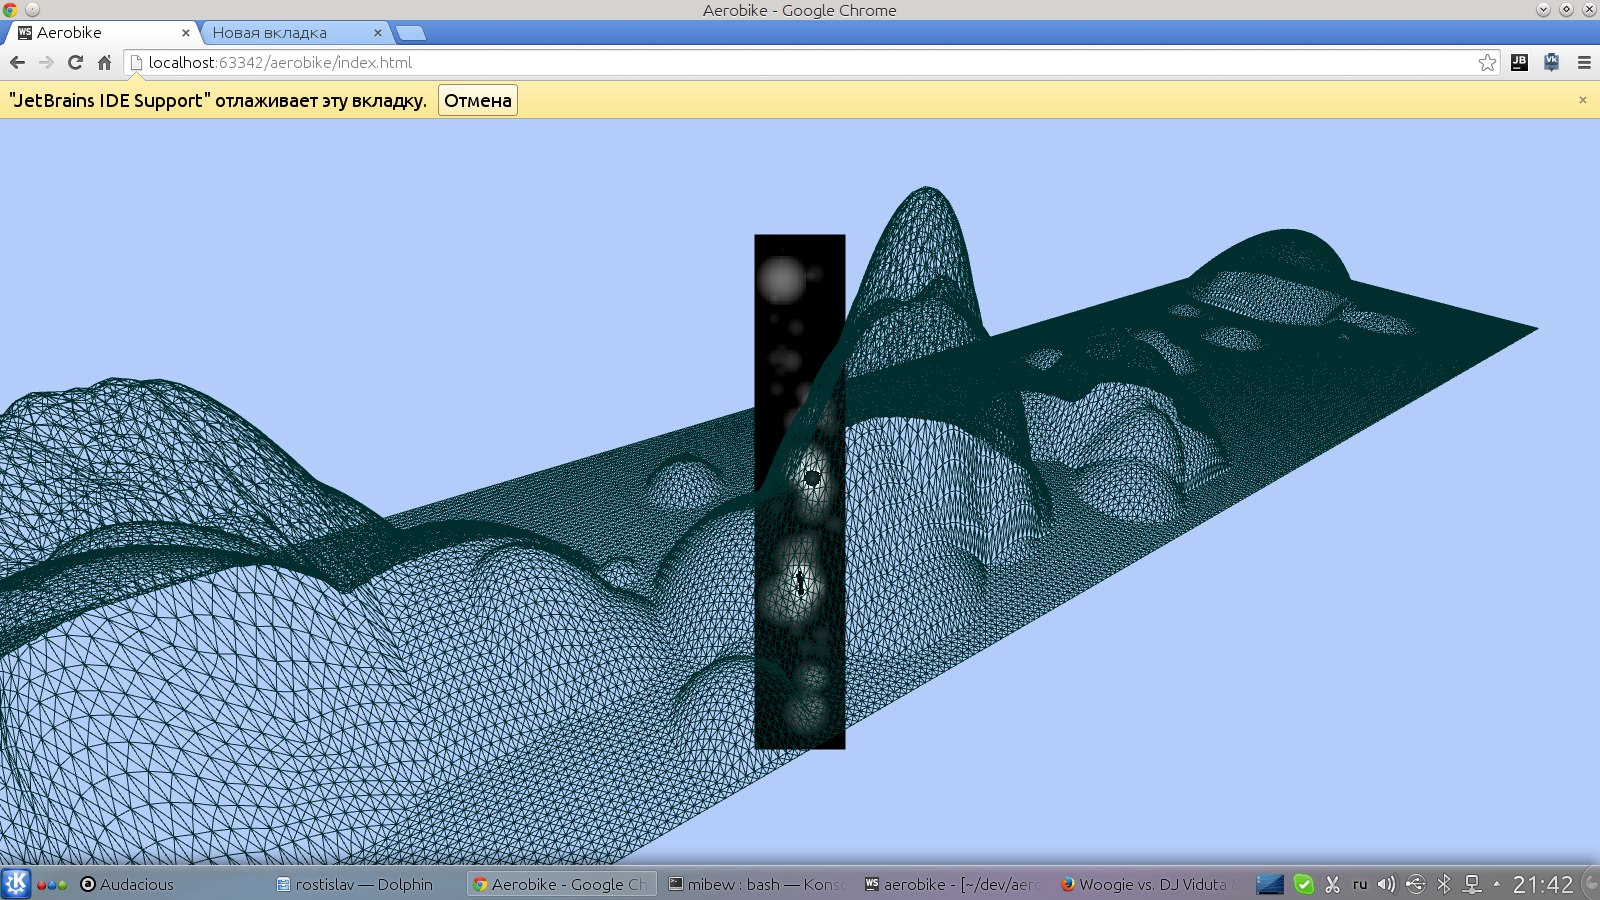
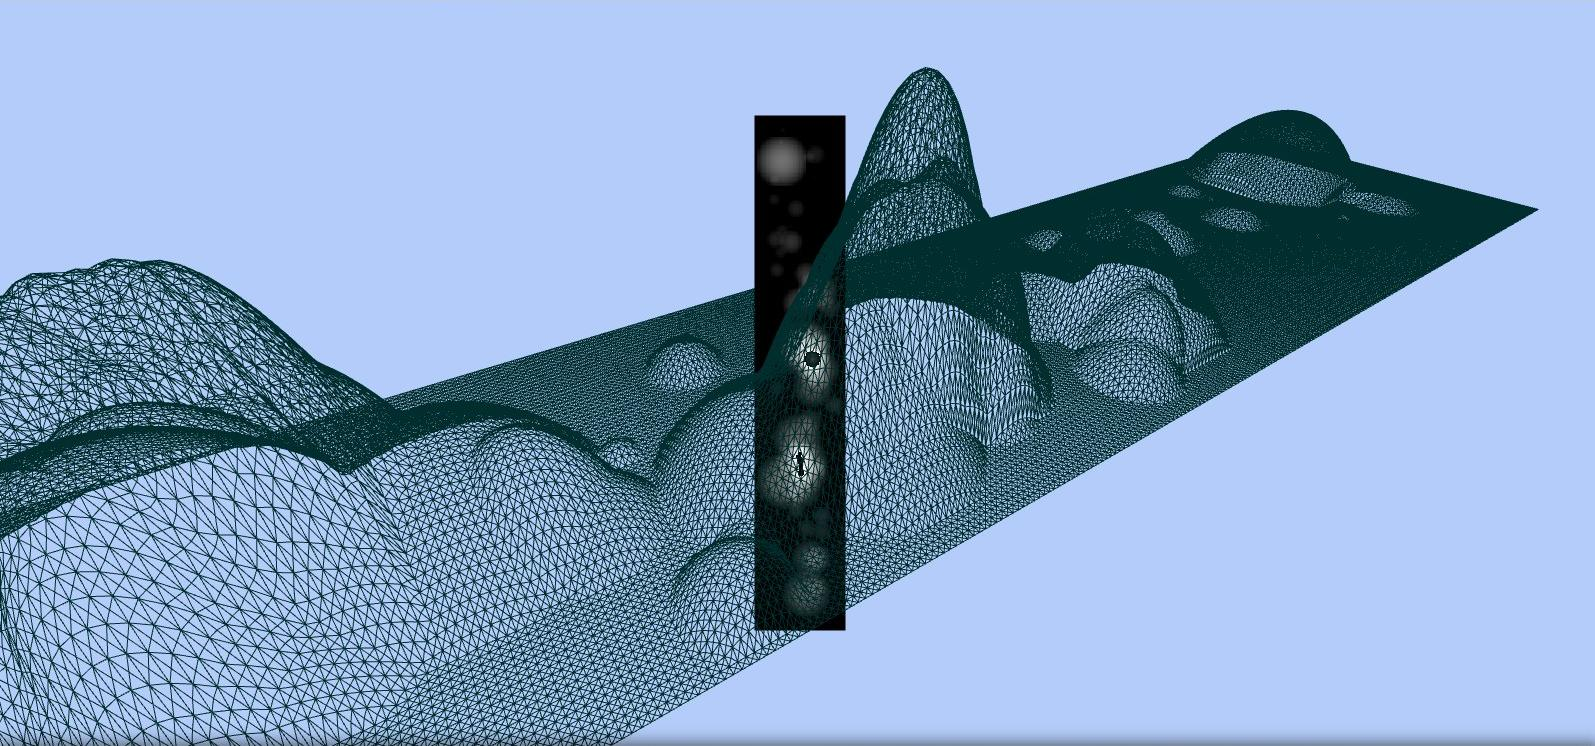
Добавлено наложение нескольких текстур на ландшафт.

diff --git a/js/models.js b/js/models.js
@@ -282,7 +282,7 @@ MODELS.Terrain = function(conf) {
         // Нормализация карты высот
         var width = conf.conv.width();
         for (i in d) {
-            d[i] = (d[i] / max_y) * width * 0.4;
+            d[i] = (d[i] / max_y) * width * 0.45;
         }
         return d;
     };
@@ -528,32 +528,41 @@ MODELS.Terrain = function(conf) {
         // Получение лекой обочины
         var i;
         var binom_conf = {};
+        var b;
         var t_div = 1 / (beg_rou - beg);
+        var t;
         for (i = beg; i < beg_rou; ++i) {
+            t = t_div * (i - beg);
             binom_conf = {
-                t: t_div * (i - beg),
+                t: t,
                 p0: cpc[0].p0,
                 p1: cpc[0].p1,
                 p2: cpc[0].p2,
                 p3: cpc[0].p3
             };
-            conf.height_map[i] = binom4(binom_conf);
+            b = binom4(binom_conf);
+            conf.height_map[i] = b;
+            conf.route_map[i] = t;
         }
         // Получение полотна трассы
         for (i = beg_rou; i < end_rou; ++i) {
             conf.height_map[i] = conf.route_centr.y;
+            conf.route_map[i] = 1;
         }
         // Получение правой обочины
         t_div = 1 / (end - end_rou);
         for (i = end_rou; i < end; ++i) {
+            t = t_div * (i - end_rou);
             binom_conf = {
-                t: t_div * (i - end_rou),
+                t: t,
                 p0: cpc[2].p0,
                 p1: cpc[2].p1,
                 p2: cpc[2].p2,
                 p3: cpc[2].p3
             };
-            conf.height_map[i] = binom4(binom_conf);
+            b = binom4(binom_conf);
+            conf.height_map[i] = b;
+            conf.route_map[i] = (1 - t);
         }
     }
 
@@ -586,6 +595,12 @@ MODELS.Terrain = function(conf) {
 
         // Послучить комплект вертикальной кривизны трассы
         var y_cpc = computeControlPointsOfCurves(y_koords);
+
+        // Подготовка карты полотна трассы
+        var route_map = [];
+        for (var rmi in conf.height_map) {
+            route_map[rmi] = 0;
+        }
 
         if (x_cpc.length === y_cpc.length) {
             // Построение кривой трассы
@@ -634,6 +649,7 @@ MODELS.Terrain = function(conf) {
                 // Сгенерировать обочины для ряда точек трассы
                 verges_conf = {
                     height_map: conf.height_map,
+                    route_map: route_map,
                     conv: conf.conv,
                     route_width: conf.route_width,        // Ширины трассы
                     route_centr: route[j],                // Центральная точка трассы на ряду точек тирейна
@@ -644,7 +660,7 @@ MODELS.Terrain = function(conf) {
         }
         return {
             pivot_verts: pivot_verts,
-            heigth_map: conf.height_map
+            route_map: route_map
         };
     }
 
@@ -723,8 +739,32 @@ MODELS.Terrain = function(conf) {
         return geometry;
     };
 
-// TODO
-// 1. Убрать смещение опорных точек в центр координат
+    /**
+     * conv      - Конвертер координат,
+     * tir_geom: - Геометрия трассы
+    */
+    function generateTerrainUvs(conf) {
+        var w = conf.conv.width();
+        var h = conf.conv.height();
+        var hw = w * 0.5;
+        var hh = h * 0.5;
+        var a;
+        var b;
+        var c;
+        var uva;
+        var uvb;
+        var uvc;
+        for (var fi in conf.tir_geom.faces) {
+            a = conf.tir_geom.vertices[conf.tir_geom.faces[fi].a];
+            b = conf.tir_geom.vertices[conf.tir_geom.faces[fi].b];
+            c = conf.tir_geom.vertices[conf.tir_geom.faces[fi].c];
+            uva = new THREE.Vector2((a.x + hw) / w, (a.z + hh) / h);
+            uvb = new THREE.Vector2((b.x + hw) / w, (b.z + hh) / h);
+            uvc = new THREE.Vector2((c.x + hw) / w, (c.z + hh) / h);
+            conf.tir_geom.faceVertexUvs[0].push([uva, uvb, uvc]);
+        }
+    }
+////////////////////////////////////////////////////////////////////////////////////////////////////////////////////////
 
     // Конвертер координат в индекс карты высот и обратно
     var _conv = new Converter(conf);
@@ -755,24 +795,24 @@ MODELS.Terrain = function(conf) {
     var _route = generateRoute(route_conf);
 
     // // * Тестовая картинка карты высот
-    // var pixelData = new Uint8Array(hm_conf.segm_width * hm_conf.segm_height * 4);
+    // var pixelData = new Uint8Array(_conv.widthInSegments() * _conv.heightInSegments() * 4);
     // var aid = 0;
-    // for (var y = 0; y < hm_conf.segm_height; ++y) {
-    //     for (var x = 0; x < hm_conf.segm_width; ++x) {
-    //         id = y * hm_conf.segm_width + x;
+    // for (var y = 0; y < _conv.heightInSegments(); ++y) {
+    //     for (var x = 0; x < _conv.widthInSegments(); ++x) {
+    //         id = y * _conv.widthInSegments() + x;
     //         aid = id * 4;
-    //         var ht = _height_map[id] / 64;
-    //         var c = Math.floor(255 * (10 < ht ? 1 : ht));
-    //         pixelData[aid] = c;
-    //         pixelData[aid + 1] = c;
-    //         pixelData[aid + 2] = c;
-    //         pixelData[aid + 3] = 255;
+    //         var ht = _route.route_map[id];
+    //         var c = Math.floor(255 * ht);
+    //         pixelData[aid] = 255;
+    //         pixelData[aid + 1] = 255;
+    //         pixelData[aid + 2] = 255;
+    //         pixelData[aid + 3] = c;
     //     }
     // }
     // const dataTexture = new THREE.DataTexture(
     //     pixelData,
-    //     hm_conf.segm_width,
-    //     hm_conf.segm_height,
+    //     _conv.widthInSegments(),
+    //     _conv.heightInSegments(),
     //     THREE.RGBAFormat,
     //     THREE.UnsignedByteType,
     //     THREE.UVMapping);
@@ -780,22 +820,22 @@ MODELS.Terrain = function(conf) {
     // var _hm_mat = new THREE.SpriteMaterial( { map: dataTexture } );
     // var _hm_sprite = new THREE.Sprite( _hm_mat );
     // _hm_sprite.position.set(0, 5, 0);
-    // _hm_sprite.scale.set(hm_conf.segm_width / 5, hm_conf.segm_height / 5, 1);
+    // _hm_sprite.scale.set(_conv.widthInSegments() / 5, _conv.heightInSegments() / 5, 1);
     // _scope.add(_hm_sprite);
     // // * __________________________________________________
 
-    // // * Отрисовка опорных точек
-    // var darkMaterial = new THREE.MeshBasicMaterial( { color: 0xff7733 } );
-    // var wireframeMaterial = new THREE.MeshBasicMaterial( { color: 0x00ff00, wireframe: true, transparent: true } );
-    // var multiMaterial = [ darkMaterial, wireframeMaterial ];
-    // for(var sp in _route.pivot_verts) {
-    //     var octagedron = new THREE.OctahedronGeometry(0.8, 0);
-    //     var shape = THREE.SceneUtils.createMultiMaterialObject(octagedron, multiMaterial);
-    //     var pos = _route.pivot_verts[sp];
-    //     shape.position.set(pos.x - _conv.width() * 0.5, pos.y, -pos.z + conf.height * 0.5);
-    //     _scope.add(shape);
-    // }
-    // // * __________________________________________________
+    // * Отрисовка опорных точек
+    var darkMaterial = new THREE.MeshBasicMaterial( { color: 0xff7733 } );
+    var wireframeMaterial = new THREE.MeshBasicMaterial( { color: 0x00ff00, wireframe: true, transparent: true } );
+    var multiMaterial = [ darkMaterial, wireframeMaterial ];
+    for(var sp in _route.pivot_verts) {
+        var octagedron = new THREE.OctahedronGeometry(0.8, 0);
+        var shape = THREE.SceneUtils.createMultiMaterialObject(octagedron, multiMaterial);
+        var pos = _route.pivot_verts[sp];
+        shape.position.set(pos.x - _conv.width() * 0.5, pos.y, -pos.z + conf.height * 0.5);
+        _scope.add(shape);
+    }
+    // * __________________________________________________
 
     // Генерация сетки тирейна
     var grid_conf = {
@@ -806,11 +846,49 @@ MODELS.Terrain = function(conf) {
     };
     var _terrain_geometry = new Grid(grid_conf);
     _terrain_geometry.computeFaceNormals();
-    // _terrain_geometry.computeVertexNormals();
-    // _terrain_geometry.computeTangents();
+    _terrain_geometry.computeVertexNormals();
+    _terrain_geometry.computeTangents();
 
-    var _mat_tir = new THREE.MeshBasicMaterial({ color:0x0035f10, wireframe: true, transparent: true });
-    var _mesh_tir = new THREE.Mesh(_terrain_geometry, _mat_tir);
+    // Подготовка текстурных координат
+    var uvs_conf = {
+        conv: _conv,
+        tir_geom: _terrain_geometry
+    };
+    generateTerrainUvs(uvs_conf);
+
+    var pixelData = new Uint8Array(_conv.widthInSegments() * _conv.heightInSegments() * 4);
+    var aid = 0;
+    for (var y = _conv.heightInSegments() - 1; 0 <= y; --y) {
+        for (var x = 0; x < _conv.widthInSegments(); ++x) {
+            id = y * _conv.widthInSegments() + x;
+            var ht = _route.route_map[id];
+            var c = Math.floor(255 * ht);
+            pixelData[aid] = 125;
+            pixelData[aid + 1] = 125;
+            pixelData[aid + 2] = 125;
+            pixelData[aid + 3] = c;
+            aid += 4;
+        }
+    }
+    const route_texture = new THREE.DataTexture(
+        pixelData,
+        _conv.widthInSegments(),
+        _conv.heightInSegments(),
+        THREE.RGBAFormat,
+        THREE.UnsignedByteType,
+        THREE.UVMapping);
+    route_texture.needsUpdate = true;
+
+    var tir_texture = new THREE.ImageUtils.loadTexture('images/tir_39.jpg');
+    tir_texture.wrapS = THREE.RepeatWrapping;
+    tir_texture.wrapT = THREE.RepeatWrapping;
+    tir_texture.repeat.set(10, 10 * _conv.height() / _conv.width());
+    var _mesh_tir = new THREE.SceneUtils.createMultiMaterialObject(_terrain_geometry, [
+        new THREE.MeshBasicMaterial({map:tir_texture, transparent:true}),
+        new THREE.MeshLambertMaterial({map:route_texture, alphaTest:0.5, transparent:true})
+    ]);
+    //var _mat_tir = new THREE.MeshBasicMaterial({ color:0x0035f10, wireframe: false, transparent: true });
+    //var _mesh_tir = new THREE.Mesh(_terrain_geometry, _mat_tir);
     _mesh_tir.receiveShadow  = true;
     _scope.add(_mesh_tir);
 

diff --git a/js/main.js b/js/main.js
@@ -391,11 +391,11 @@ AEROBIKE.Game = function(renderer, on_return_game) {
     var _group = new THREE.Group();
     var _tir_conf = {
         hills_num: 900,
-        route_width: 4,
+        route_width: 5,
         width: 40,
-        height: 300,
-        segments_width: 80,
-        segments_height: 600
+        height: 350,
+        segments_width: 90,
+        segments_height: 700
     };
     _group.add(new MODELS.Terrain(_tir_conf));
     _group.position.y = -5;
